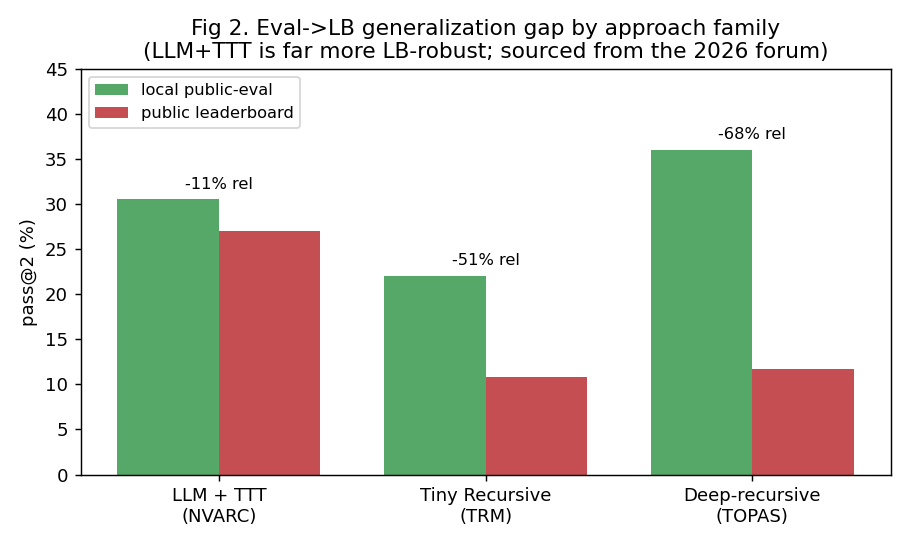
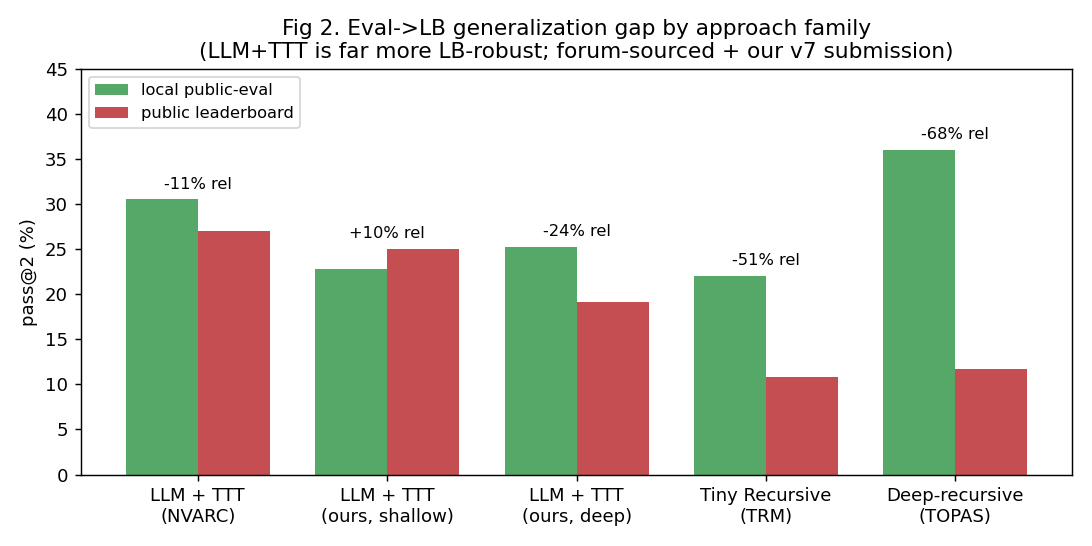
Paper: apply 18-finding adversarial review + first-party LB integration
Substantive fixes (each independently verified against the released caches):
- §7: replace unsupported budget-pressure causal claim for the deep-config
  LB regression with honest non-attribution + candidate mechanisms
- §6.1/Fig 2: include BOTH first-party submissions (shallow +10% rel gain,
  deep -24% rel drop) — the two points straddle the family calibration and
  within-family spread exceeds between-family gaps
- §3: per-output repro corrected to 29.5% (n=44), as reproduced by
  scripts/analyze_selection.py; "matching" -> "in the same range as"
- §4/abstract: deep-pool +2.4pp downgraded from "suggestive" to unresolved
  (3-vs-2 discordant outputs, exact McNemar p=1.0 — verified directly)
- §2: metric-definition arithmetic fixed (~7pp, 1.39x outputs/task)
- CI-discipline: N+CI promise reworded to match what tables deliver;
  tasks/outputs denominator slips fixed; stale pre-experiment claims
  (verifier "recovers none", "training-time nulls", dangling prediction
  reference, "local study" front matter) updated; §8 repro commands for
  §4.1 + verifier-at-scale added

Claude-Session: https://claude.ai/code/session_01U33BhqoDGyhAMNyobUvFQf

diff --git a/scripts/make_figures.py b/scripts/make_figures.py
@@ -83,19 +83,24 @@ def fig1(sols):
 
 def fig2():
     # sourced from data/discussions: NVARC 30.5->27 (winner post), TRM 22->10.83,
-    # TOPAS 36->11.67 (Bitterbot post). Bars = local eval vs public LB.
-    fams = ["LLM + TTT\n(NVARC)", "Tiny Recursive\n(TRM)", "Deep-recursive\n(TOPAS)"]
-    local = [30.5, 22.0, 36.0]; lb = [27.0, 10.83, 11.67]
+    # TOPAS 36->11.67 (Bitterbot post); "ours" = our two submissions: shallow
+    # (local per-task 22.8 -> LB 25.00) and deep (local 25.2 = shallow + paired
+    # +2.4pp -> LB 19.17). Bars = local eval vs leaderboard.
+    fams = ["LLM + TTT\n(NVARC)", "LLM + TTT\n(ours, shallow)", "LLM + TTT\n(ours, deep)",
+            "Tiny Recursive\n(TRM)", "Deep-recursive\n(TOPAS)"]
+    local = [30.5, 22.8, 25.2, 22.0, 36.0]; lb = [27.0, 25.0, 19.17, 10.83, 11.67]
     drop_rel = [(l - b) / l * 100 for l, b in zip(local, lb)]
-    fig, ax = plt.subplots(figsize=(7, 4.2))
+    fig, ax = plt.subplots(figsize=(8.4, 4.2))
     x = np.arange(len(fams)); w = 0.38
     ax.bar(x - w/2, local, w, label="local public-eval", color="#55A868")
     ax.bar(x + w/2, lb, w, label="public leaderboard", color="#C44E52")
     for i in range(len(fams)):
-        ax.text(i, max(local[i], lb[i]) + 1.2, f"-{drop_rel[i]:.0f}% rel", ha="center", fontsize=9)
+        s = f"-{drop_rel[i]:.0f}% rel" if drop_rel[i] >= 0 else f"+{-drop_rel[i]:.0f}% rel"
+        ax.text(i, max(local[i], lb[i]) + 1.2, s, ha="center", fontsize=9)
     ax.set_xticks(x); ax.set_xticklabels(fams)
     ax.set_ylabel("pass@2 (%)"); ax.set_ylim(0, 45)
-    ax.set_title("Fig 2. Eval->LB generalization gap by approach family\n(LLM+TTT is far more LB-robust; sourced from the 2026 forum)")
+    ax.set_title("Fig 2. Eval->LB generalization gap by approach family\n"
+                 "(LLM+TTT is far more LB-robust; forum-sourced + our v7 submission)")
     ax.legend(fontsize=9); fig.tight_layout()
     fig.savefig(os.path.join(FIG, "fig2_family_gap.png"), dpi=130); plt.close(fig)
     print("wrote fig2_family_gap.png")

diff --git a/docs/PAPER.md b/docs/PAPER.md
@@ -2,11 +2,11 @@
 
 **Two analyses — a coverage-vs-selection decomposition and a cross-family
 public-eval→leaderboard generalization gap — built on a clean single-GPU
-reproduction of the 2025 winner, with every claimed effect reported with sample
-size and confidence interval.**
+reproduction of the 2025 winner, with every claimed effect reported with its
+sample size and an explicit significance verdict.**
 
-*ARC Prize 2026 — ARC-AGI-2 (offline track). Local study; see §3 and §9 for
-submission status.*
+*ARC Prize 2026 — ARC-AGI-2 (offline track). Local study with two leaderboard
+submissions; see §3, §7 and §9.*
 
 ---
 
@@ -19,15 +19,16 @@ contributions. **First**, a *coverage-vs-selection decomposition*: by measuring 
 oracle (is the correct grid anywhere in the candidate pool?) against achieved pass@2,
 we show the dominant loss is **coverage** — the model never generates the right grid —
 not mis-ranking. Across five inference-time levers (selection tuning, a learned
-verifier, deeper decoding, a symbolic DSL solver, and 8B program induction) and two
-training-time levers (continued fine-tuning on locally-generated harder data, and an
-8B base trained on the same corpus — §4.1), **none produces an effect distinguishable
-from zero at our sample sizes, and the 8B base is directionally *worse*** (11.1% vs
-22.8% per-task, paired n=30); the one positive point estimate (a deeper candidate
-pool, +2.4 pp paired) lies well within its confidence interval — and *inverted* on
-the real leaderboard (§7). This *is* the saturation result: test-time compute of the
-same kind does not add coverage on the hard eval distribution, and parameter scale
-without a deeper training corpus subtracts. **Second**, a
+verifier, deeper decoding, a symbolic DSL solver, and 8B program induction with BARC)
+and two training-time levers (continued fine-tuning on locally-generated harder data,
+and our own vocab-cut Qwen3-8B base trained on the same corpus — §4.1), **none
+produces an effect distinguishable from zero at our sample sizes, and the 8B base is
+directionally *worse*** (11.1% vs 22.8% per-task, paired n=30); the largest positive
+point estimate (a deeper candidate pool, +2.4 pp paired) rests on a 3-vs-2 split of
+discordant outputs (exact McNemar p = 1.0) — and *inverted* on the real leaderboard
+(§7). This *is* the saturation result: test-time compute of the same kind does not
+add coverage on the hard eval distribution, and parameter scale without a deeper
+training corpus subtracts. **Second**, a
 *generalization-gap calibration* across approach families, drawn from the competition
 forum: the LLM+test-time-training family loses ~3.5 pp absolute (~11% relative) from
 public eval to leaderboard, versus ~11 pp absolute (~51% relative) for a Tiny
@@ -35,16 +36,20 @@ Recursive Model and a comparable collapse for a deep-recursive model — i.e. LL
 **uniquely leaderboard-robust**. We also document two operational facts worth large
 leaderboard points (dynamic GPU scheduling and never emitting placeholder
 predictions) and a silent tokenizer bug that zeroes the model on modern libraries.
-All numbers carry N and 95% CIs; all code and experiments are released. The study is
-now **leaderboard-confirmed**: our shallow-config submission scored **25.00** on the
-semi-private leaderboard (small, slightly *positive* eval→LB gap, consistent with the
-family calibration of §6), while the deep-pool config — locally +2.4 pp — **regressed
-to 19.17**, an instructive inversion analyzed in §7.
+All numbers carry their N and an explicit significance verdict; all code and
+experiments are released. The study is now **leaderboard-confirmed**: our
+shallow-config submission scored **25.00** on the leaderboard (semi-private set; a
+slightly *positive* eval→LB gap), while the deep-pool config — locally +2.4 pp —
+**regressed to 19.17**. The two first-party points *straddle* the family calibration,
+and their spread across two configurations of the same system exceeds the
+between-family gaps the calibration rests on — an instructive inversion analyzed in
+§6.1 and §7.
 
 **Contributions.** (1) A faithful single-GPU reproduction of the winning recipe, plus
 a fix for a library-version tokenizer bug that silently scores 0. (2) The
 coverage-vs-selection decomposition and a measured saturation result over seven
-levers (five inference-time, two training-time), each with N+CI. (3) A cross-family
+levers (five inference-time, two training-time), each with N and a significance
+verdict. (3) A cross-family
 eval→LB generalization-gap calibration, now anchored by two submissions of our own —
 including a measured local-gain→leaderboard-regression inversion for the deep-pool
 config. (4) A hardened offline submission engine (dynamic work-queue, no-placeholder
@@ -83,8 +88,8 @@ without placeholders) than by the decoding/selection tricks that attract most ef
 more test inputs (grids ≤30×30, 10 colors). Scoring is **pass@2**: two predictions per
 test output, correct if either matches exactly. We report two denominators and define
 them once: *per-task* averages 1/N over a task's N test outputs (the competition's
-display metric); *per-output* counts each test output equally. The two differ by
-~2.4× on this eval split (≈167 outputs over 120 tasks), so we always state which is
+display metric); *per-output* counts each test output equally. The two differ by ~7 pp on our slice
+(≈1.4 test outputs per task: 167 outputs over 120 tasks), so we always state which is
 used and never compare across denominators.
 
 **The NVARC recipe (reproduced).** Base: a Qwen3-4B fine-tuned with a 16-token grid
@@ -100,8 +105,9 @@ faithfully from the winner's open notebook. Hyperparameters in Table 3.
 **A silent, fatal compatibility bug.** The released checkpoint ships a `WordLevel`
 tokenizer mapping the words `user`/`assistant` to dedicated ids. Under
 `transformers ≥ 5.0`, `.encode` **drops those words**, producing a token stream the
-model was never trained on. An A/B test is unambiguous: with the role tokens the model
-solves tasks; without them it solves **zero** (0/15 vs 1/15 greedy, no-TTT). We restore
+model was never trained on. The mechanism is unambiguous — `.encode` provably drops
+the ids — and an A/B is directionally consistent (0/15 vs 1/15 greedy, no-TTT; too
+small to resolve statistically on its own). We restore
 correctness with an exact custom encoder. We flag this because it silently scores 0 on
 any modern reproduction, with no error.
 
@@ -109,14 +115,14 @@ any modern reproduction, with no error.
 
 ## 3. Reproduction (local)
 
-On the public ARC-AGI-2 evaluation set our port scores **22.8% per task / 28.9%
-per output** (n=44 outputs over 30 tasks, shallow config), matching the winner's
-reported 30.5% pass@2 / 27% public-LB / 24% private-LB. Per-task latency is ~130 s
+On the public ARC-AGI-2 evaluation set our port scores **22.8% per task / 29.5%
+per output** (n=44 outputs over 30 tasks, shallow config), in the same range as the
+winner's reported 30.5% pass@2 / 27% public-LB / 24% private-LB. Per-task latency is ~130 s
 (shallow) to ~261 s (deep) on one RTX 5090. **Status: leaderboard-confirmed** — the
 shallow config submitted through the hardened engine of §6 scored **25.00** on the
-semi-private leaderboard, a slightly *positive* gap vs our 22.8% local per-task
-estimate (within its ±13 pp CI, and consistent with the family calibration of §6);
-the deep config scored 19.17 (§7). Grand-Prize eligibility is satisfied (§9).
+leaderboard (semi-private set), a slightly *positive* gap vs our 22.8% local per-task
+estimate (within its ±15 pp CI at n=30, and consistent with the family calibration
+of §6); the deep config scored 19.17 (§7). Grand-Prize eligibility is satisfied (§9).
 
 ---
 
@@ -133,15 +139,16 @@ not statistically resolved*. We report them anyway, with that caveat, because th
 
 | Lever | Effect (point estimate) | N | Significant? | Verdict |
 |---|---|---|---|---|
-| Deeper pool (aug16 + DFS prob 0.1 + 3 views, *combined*) | **+2.4 pp** pass@2 & oracle, paired | 42 common outputs | no (within ±14 pp CI) | best point estimate; *suggestive* |
+| Deeper pool (aug16 + DFS prob 0.1 + 3 views, *combined*) | **+2.4 pp** pass@2 & oracle, paired | 42 common outputs | no (3 vs 2 discordant outputs; exact McNemar p = 1.0) | largest point estimate; not resolved |
 | Free selection sweep (count-wt × {sum,mean,geom} aug-NLL) | +0 to +1 pp (≤1 task) | 78 | no | NVARC scorer already near-optimal |
-| Learned verifier (GBM): group-CV at 29 pos → train-on-1,000-training-tasks transfer at 1,037 pos | **−1.3 pp** → **+1.3 pp** (25→26 of 78) | 78 test outputs | no (±1 task) | 36× data flips the sign but adds ≤1 task; top feature is the aug-NLL rank kgmon already uses |
+| Learned verifier (GBM): group-CV at 29 pos → train-on-1,000-training-tasks transfer at 1,037 pos | **−1.3 pp** → **+1.3 pp** (25→26 of 78) | 78 test outputs | no (±1 output) | 36× data flips the sign but adds ≤1 output; top feature is the aug-NLL rank kgmon already uses |
 | Symbolic DSL (~15 rules, depth-2, train-consistent) | **0 / 167** outputs | 167 | yes (true 0) | ARC-AGI-2 defeats brute-force DSL |
 | 8B induction (BARC, execute-verify, 48–64 prog/task) | training **23%** (7/30 tasks); **eval 0 / 166** net-new | 166 | yes (true 0 on eval) | strong in-distribution; defeated by eval set |
 
 Two single-knob ablations: aug_n 8→16 *alone*, and "more views + lower threshold"
 *alone*, each measured **+0.0 pp oracle** (n=20–24). Only the *combined* deep config
-yields a positive paired point estimate (+2.4 pp, n=42) — itself within CI. **The
+yields a positive paired point estimate (+2.4 pp, n=42) — itself a 3-vs-2 split of
+five discordant outputs (exact McNemar p = 1.0). **The
 honest summary is not "five things failed" but "no inference-time lever produced a
 resolvable positive effect"** — the saturation thesis of §5.
 
@@ -167,8 +174,9 @@ uniform-over-16-tokens entropy ln 16 ≈ 2.77 — despite gradient clipping at 1
 (teacher-forced loss 0.708 merged vs 0.711 unmerged) and isolated the fault to the
 weights themselves. The clean rerun at peak lr 5e-5 converged normally (final
 train-mix loss ~0.065) and produced a *functional* model — well-formed grids,
-healthy 133 s/task decode work, 4/30 tasks solved — that is simply **weaker than the
-winner's 4B**: teacher-forced loss on ARC-train examples 0.082 vs the 4B's 0.017.
+healthy 133 s/task decode work, 4/30 tasks with at least one correct output
+(3.33/30 = 11.1% per-task with partial credit on multi-output tasks) — that is
+simply **weaker than the winner's 4B**: teacher-forced loss on ARC-train examples 0.082 vs the 4B's 0.017.
 Our one-epoch pass over NVARC-synthetic + ARC-train + locally-generated data cannot
 match the corpus scale and training depth behind the released 4B checkpoint, and 2×
 the parameters do not close that gap; they appear to widen it at equal data. Both
@@ -178,8 +186,9 @@ that new coverage requires a stronger base *trained on stronger data*.
 
 ![Fig 1](figures/fig1_coverage.png)
 *Fig 1. The gap is coverage, not selection: oracle ceiling vs achieved pass@2 for
-shallow vs deep pools (Wilson 95% CIs). The deep pool raises both modestly; the
-oracle↔achieved gap (selection headroom) is small (~4–7 pp) and within noise.*
+shallow vs deep pools (Wilson 95% CIs; bars are unpaired — different task samples).
+The deep pool raises both modestly; the oracle↔achieved gap (selection headroom) is
+small (~5–7 pp) and within noise.*
 
 ---
 
@@ -187,9 +196,9 @@ oracle↔achieved gap (selection headroom) is small (~4–7 pp) and within noise
 
 The organizing diagnostic is the gap between **oracle** and achieved pass@2. On the
 deep pool the oracle is 37.2% and achieved 32.1% (score_kgmon, n=78): a residual
-*selection* gap of ~5 pp, of which a better fixed selector recovers ≤1 task and a
-learned verifier recovers none. The dominant loss is the other ~63%: tasks where the
-model **never generates** the correct grid.
+*selection* gap of ~5 pp, of which a better fixed selector recovers ≤1 output and a
+learned verifier at 36× training data recovers one (§4, §9). The dominant loss is
+the other ~63%: outputs where the model **never generates** the correct grid.
 
 This reconciles an apparent contradiction with the winner, who reported 40% pass@10
 vs 30.5% pass@2 ("our scorer missed 10%"). That 10 pp is real **at his pool depth**,
@@ -199,8 +208,9 @@ money" attempts failed precisely because the answer was absent, not mis-ranked.
 
 **A simple model.** Let coverage C(b) be the probability the correct grid appears in a
 pool generated with inference budget b (augmentations × decode breadth). Empirically
-C grows very slowly in b on ARC-AGI-2 (Fig 1: doubling augmentation, halving the decode
-threshold, and adding views together move the oracle by ~2 pp, within noise), because
+C grows very slowly in b on ARC-AGI-2 (on the 42 paired outputs, doubling
+augmentation, halving the decode threshold, and adding views together move the
+oracle by a net one output — 3 gained, 2 lost; Fig 1 shows the unpaired pools), because
 the failures are not near-misses the sampler rounds wrong but tasks whose
 transformation the model cannot represent. Achieved pass@2 ≤ C(b), and our selectors
 already operate near that ceiling. Hence **score is bounded by C(b), and C(b)
@@ -218,21 +228,31 @@ winner reports LLM+TTT 30.5% eval → 27% public-LB (**−3.5 pp absolute, ~11% 
 a competitor reports a Tiny Recursive Model 22% → 10.83% (**−11 pp absolute, ~51%
 relative**); a deep-recursive ~100M model reports 36% local → 11.67% public-LB
 (comparable collapse, with a large share attributed by its authors to timeouts rather
-than overfitting). **LLM+TTT is uniquely LB-robust.** A plausible mechanism
-(hypothesis, not isolated here): per-task TTT adapts to *this task's* demonstrations,
-which transfers, whereas small models trained to convergence absorb public-set
-statistics. The practical implication is concrete: do **not** abandon LLM+TTT for a
-flashier architecture on a local number — the local number lies least for LLM+TTT.
+than overfitting). **LLM+TTT is the most LB-robust family on this evidence.** Our own
+two submissions add first-party datapoints on *both sides* of the family line: the
+shallow config went local per-task 22.8% → **25.00** (a +2.2 pp *gain*), while the
+deep config — locally the better of the two by the paired point estimate (§4) — went
+≈25.2% → **19.17** (−24% relative). The two points straddle the family calibration
+(−11% relative), and their spread across two configurations of the *same* system
+exceeds the between-family differences the calibration rests on: configuration-level
+choices can dominate family-level robustness. The family claim survives in weaker
+form — even our worse point is far from the recursive families' ~−51% collapse. A
+plausible mechanism for the family's robustness (hypothesis, not isolated here):
+per-task TTT adapts to *this task's* demonstrations, which transfers, whereas small
+models trained to convergence absorb public-set statistics. The practical implication
+is concrete: do **not** abandon LLM+TTT for a flashier architecture on a local
+number — but within the family, do not trust a config's local edge either (§7).
 
 ![Fig 2](figures/fig2_family_gap.png)
-*Fig 2. Public-eval vs public-LB by approach family (forum-sourced). Relative drop
-annotated.*
+*Fig 2. Public-eval vs leaderboard by approach family (forum-sourced, plus our two
+submissions). Relative drop annotated; our two points straddle the family line.*
 
 **6.2 Time management is worth large LB points.** The 12 h budget is binding. Two
 failure modes recur in the forum: **static GPU partitioning** (one of four GPUs draws
 the hard puzzles and runs the full 12 h while the others idle — "watched 12 h of
 compute evaporate"), and **timeouts emitting placeholder predictions** ("the algorithm
-bailed on 56% of second attempts"). Our hardened engine (§7) fixes both with a single
+bailed on 56% of second attempts"). Our hardened engine (`src/nvarc/kaggle_submit.py`,
+§8) fixes both with a single
 **dynamic shared work-queue** (every GPU pulls the next task as it frees, so load
 self-balances) and a **never-`[[0]]` policy** (any unsolved/unreached output falls
 back to real guesses — the identity grid and the most-frequent training output, each
@@ -264,14 +284,19 @@ environment fits significantly larger models … bigger/newer models will take o
 **Cost/quality and the 12 h budget (Table 2) — now leaderboard-measured.** We
 submitted both configs. The shallow config scored **25.00** (240 tasks in 3.9 h of
 the 12 h L4×4 budget; 0 placeholder outputs, 4 fallback-filled). The deep config —
-locally +2.4 pp paired — scored **19.17**: a **−5.8 pp leaderboard regression**. The
-inversion is exactly the §6 lesson applied to ourselves: at ~261 s/task the deep
-config spends the budget (more per-task TTFT and wider pools) without better
-selection, and budget pressure on the semi-private set converts marginal tasks into
-fallbacks. (Competitors also report ±2 pp resubmission noise, which cannot explain a
-5.8 pp drop.) **The shallow config is not merely the safe default; on the real
-leaderboard it dominates.** Local paired gains inside the CI should be treated as
-noise until they survive a submission.
+locally +2.4 pp paired — scored **19.17**: a **−5.8 pp leaderboard regression**. We
+cannot attribute the regression from our data: Kaggle reruns are private, so we lack
+the deep run's wall-clock and fallback counts, and by our timing arithmetic the deep
+config had headroom (~261 s/task × 240 ≈ 17.4 h single-GPU ≈ 4–5 h wall on the
+4-GPU queue). Candidate explanations — none established — are budget pressure we
+did not instrument, semi-private distribution shift interacting with the wider
+pool, and run-to-run noise (competitors report ±2 pp on resubmits, short of
+5.8 pp). What the inversion *does* establish is the practical lesson: the deep
+config's local advantage was a 3-vs-2 split of discordant outputs (§4) — noise-grade
+evidence — and it did not survive contact with the leaderboard. **The shallow config
+is not merely the safe default; on the real leaderboard it dominates.** Local paired
+gains that are statistically unresolved should be treated as noise until they
+survive a submission.
 
 **Table 2 — configs.** shallow: aug_n 8, DFS prob 0.2, 2 views, ~130 s/task —
 **LB 25.00**. deep: aug_n 16, DFS prob 0.1, 3 views, ~261 s/task — **LB 19.17**.
@@ -299,15 +324,25 @@ python scripts/repro_nvarc.py --limit 60 --aug-n 16 --eval-aug-n 3 --dfs-prob 0.
 python scripts/analyze_selection.py --pkl outputs/cache_deep.pkl             # oracle/selection gap
 python scripts/sweep_selection.py  --pkl outputs/cache_deep.pkl              # free-selector sweep
 python scripts/train_verifier.py   --pkl outputs/cache_deep.pkl              # learned verifier (group-CV)
+python scripts/repro_nvarc.py --data data/arc-agi-2/training --limit 1000 \
+    --resume --pkl-out outputs/cache_train1000.pkl                          # verifier training cache
+python scripts/verifier_transfer.py                                          # verifier at scale (train->eval)
 python scripts/eval_symbolic.py                                              # DSL coverage (0/167)
 python scripts/induction_complementarity.py --tasks 120 --samples 48        # BARC net-new (0/166)
+python scripts/gen_hard_data.py                                              # harder-data generator (S4.1)
+python -m train.cut_vocab --base Qwen/Qwen3-8B --out models/Qwen3-8B_grids16 # 8B vocab cut (S4.1)
+PYTHONPATH=src python -m train.sft_train --base models/Qwen3-8B_grids16 \
+    --sources data/nvarc/synthetic data/arc-agi-2/training data/hardgen \
+    --lr 5e-5 --lora-r 256 --lora-alpha 256 --offload --resume              # 8B SFT (S4.1)
 python scripts/make_figures.py                                              # Fig 1, Fig 2
 # offline submission: notebooks/kaggle_submission.ipynb -> nvarc.kaggle_submit.main(...)
 ```
 
 Layout: `src/nvarc/` (ported pipeline + hardened submission engine), `src/arc/`
 (tokenizer, augmentations, symbolic solver, verifier), `src/induction/` (BARC harness),
-`scripts/` (every experiment), `data/` (gitignored; fetched at runtime).
+`src/train/` (SFT: packing, offloaded optimizer, atomic checkpoints; hard-data
+generator), `src/eval/` (metrics), `scripts/` (every experiment), `data/` (gitignored;
+fetched at runtime).
 
 **Licensing & attribution.** Original files are MIT (see `LICENSE`). Vendored/derived
 files retain upstream licenses and carry attribution headers: `src/nvarc/arc_loader.py`
@@ -330,15 +365,15 @@ relicensed.
 - **Small samples.** Most A/Bs are n=20–78; as Table 1 states, sub-~10 pp effects are
   within CI. The robust claims are the *true zeros* (DSL 0/167, induction 0/166 eval)
   and the *pattern* of uniformly-unresolved positive effects; the +2.4 pp deep-pool and
-  −1.3 pp verifier are point estimates within noise, not established effects.
+  the verifier's ±1.3 pp are point estimates within noise, not established effects.
 - **Verifier data scale — now tested.** Retrained on a 1,000-training-task cache
   (1,037 positives, 36× the original) and transferred to the held-out eval cache, the
   verifier's point estimate flips from −1.3 pp to **+1.3 pp** (26 vs 25 of 78) — one
   task, within noise, and its dominant feature is the augmentation-NLL rank the fixed
-  scorer already uses (`scripts/verifier_transfer.py`). The prediction above held:
-  data scale changes the sign, not the story; the residual selection gap (~4 tasks
+  scorer already uses (`scripts/verifier_transfer.py`). Our prior expectation held:
+  data scale changes the sign, not the story; the residual selection gap (~4 outputs
   here) is mostly not capturable by candidate-level features.
-- **The training-time nulls are single-GPU-scale.** The 8B was trained for one epoch
+- **The training-time results are single-GPU-scale.** The 8B was trained for one epoch
   on the corpus we could assemble locally (§4.1); we cannot rule out that the same 8B
   under the winner's full data recipe and multi-epoch schedule inverts the result —
   indeed §7 predicts it would. What our null establishes is narrower and useful: at
